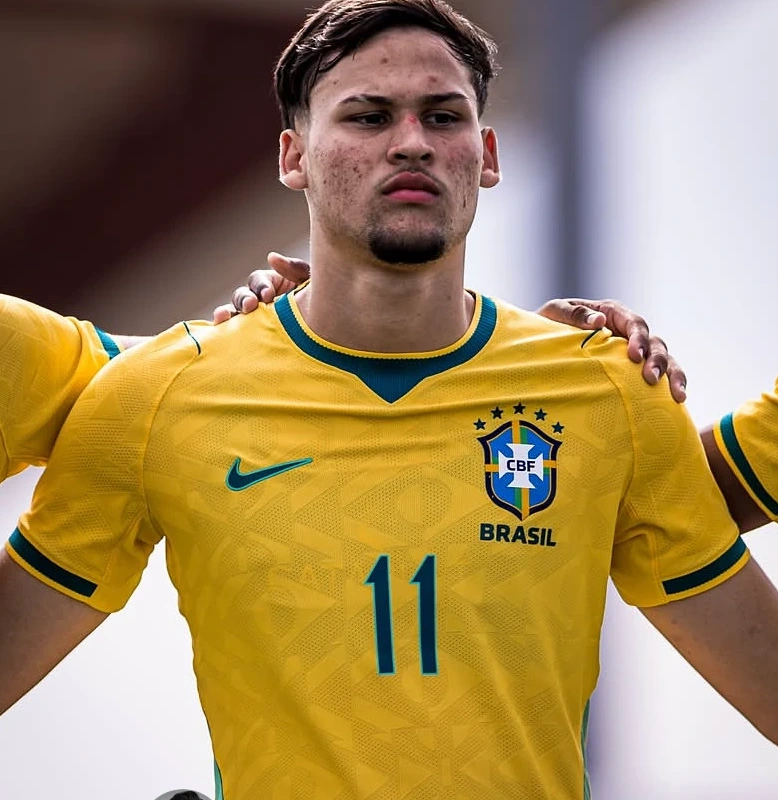
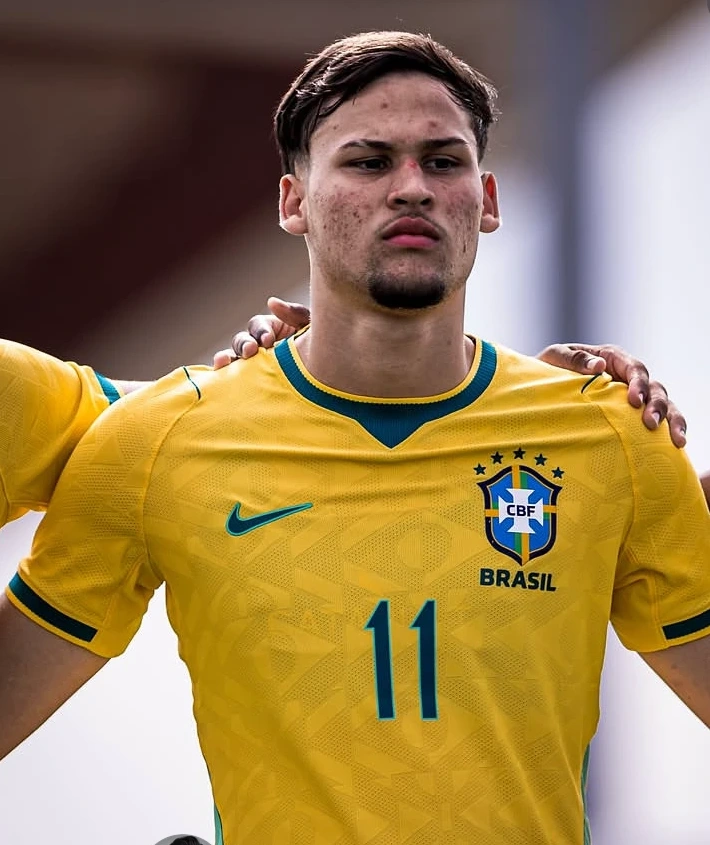
Refina enquadramento para preservar rostos nas fotos dos atletas

diff --git a/style.css b/style.css
@@ -34,4 +34,4 @@
 .bf-athlete-body>header{display:block;position:static;inset:auto;width:auto;height:auto;padding:0 0 20px;margin:0;background:transparent;border:0;box-shadow:none;backdrop-filter:none;z-index:auto}.bf-athlete-body>header h3{display:block;margin:0 0 10px}.bf-athlete-body>header p{display:block}
 
 /* Contact and consistent athlete portraits */
-.whatsapp-contact{position:fixed;right:20px;bottom:76px;z-index:80;background:#157b45;color:#fff;padding:14px 19px;border-radius:28px;font-size:14px;font-weight:700;box-shadow:0 6px 24px #0005;text-decoration:none}.whatsapp-contact:hover{background:#116438}.whatsapp-contact:focus-visible{outline:3px solid #fff;outline-offset:3px}.bf-athlete-photo img{object-position:center 25%}.bf-athlete:first-child .bf-athlete-photo img{object-fit:cover;object-position:center 62%;background:#13294a}@media(max-width:620px){.bf-athlete-photo{height:auto;aspect-ratio:4/5}.whatsapp-contact{right:12px;bottom:72px;font-size:12px;padding:12px 16px}}
+.whatsapp-contact{position:fixed;right:20px;bottom:76px;z-index:80;background:#157b45;color:#fff;padding:14px 19px;border-radius:28px;font-size:14px;font-weight:700;box-shadow:0 6px 24px #0005;text-decoration:none}.whatsapp-contact:hover{background:#116438}.whatsapp-contact:focus-visible{outline:3px solid #fff;outline-offset:3px}.bf-athlete-photo img{object-position:center top}.bf-athlete:first-child .bf-athlete-photo img{object-fit:cover;object-position:center 62%;background:#13294a}@media(max-width:620px){.bf-athlete-photo{height:auto;aspect-ratio:4/5}.whatsapp-contact{right:12px;bottom:72px;font-size:12px;padding:12px 16px}}
